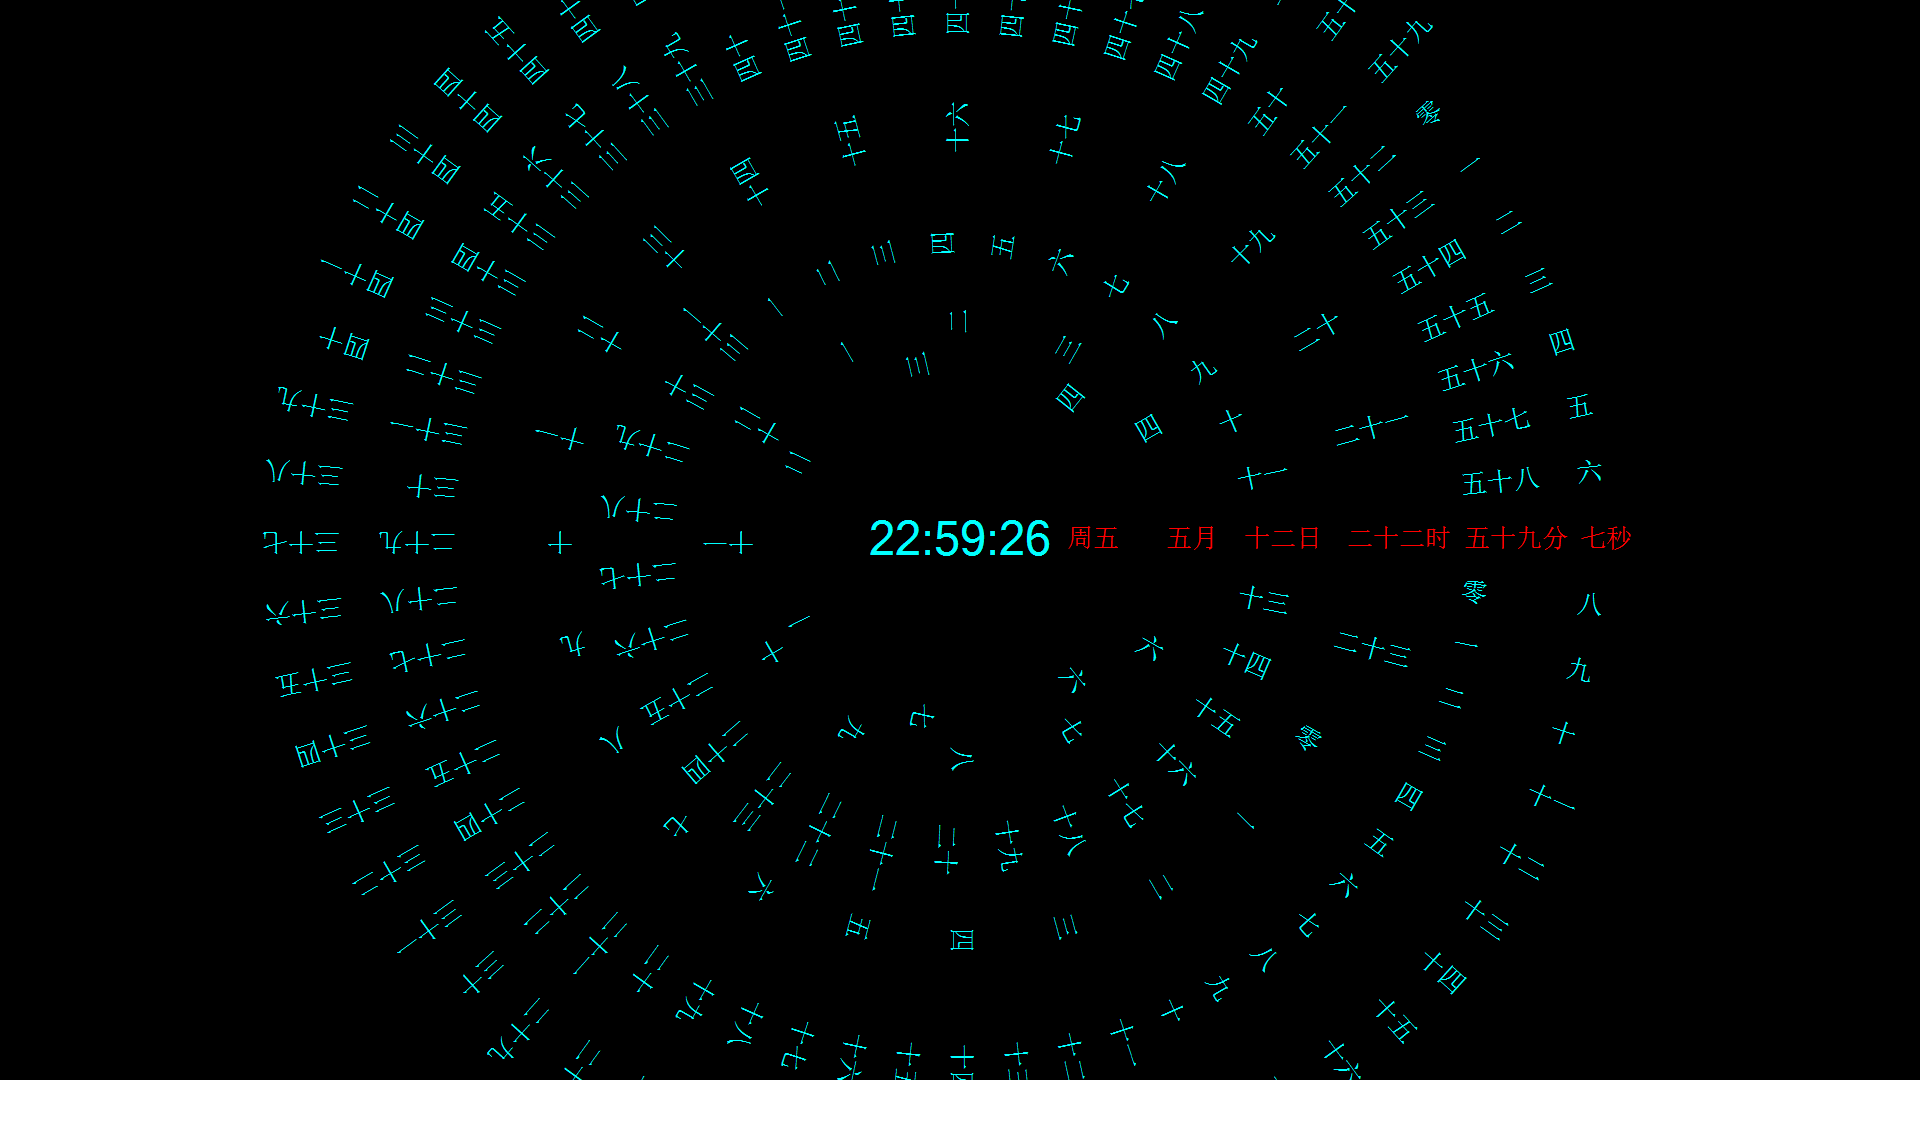
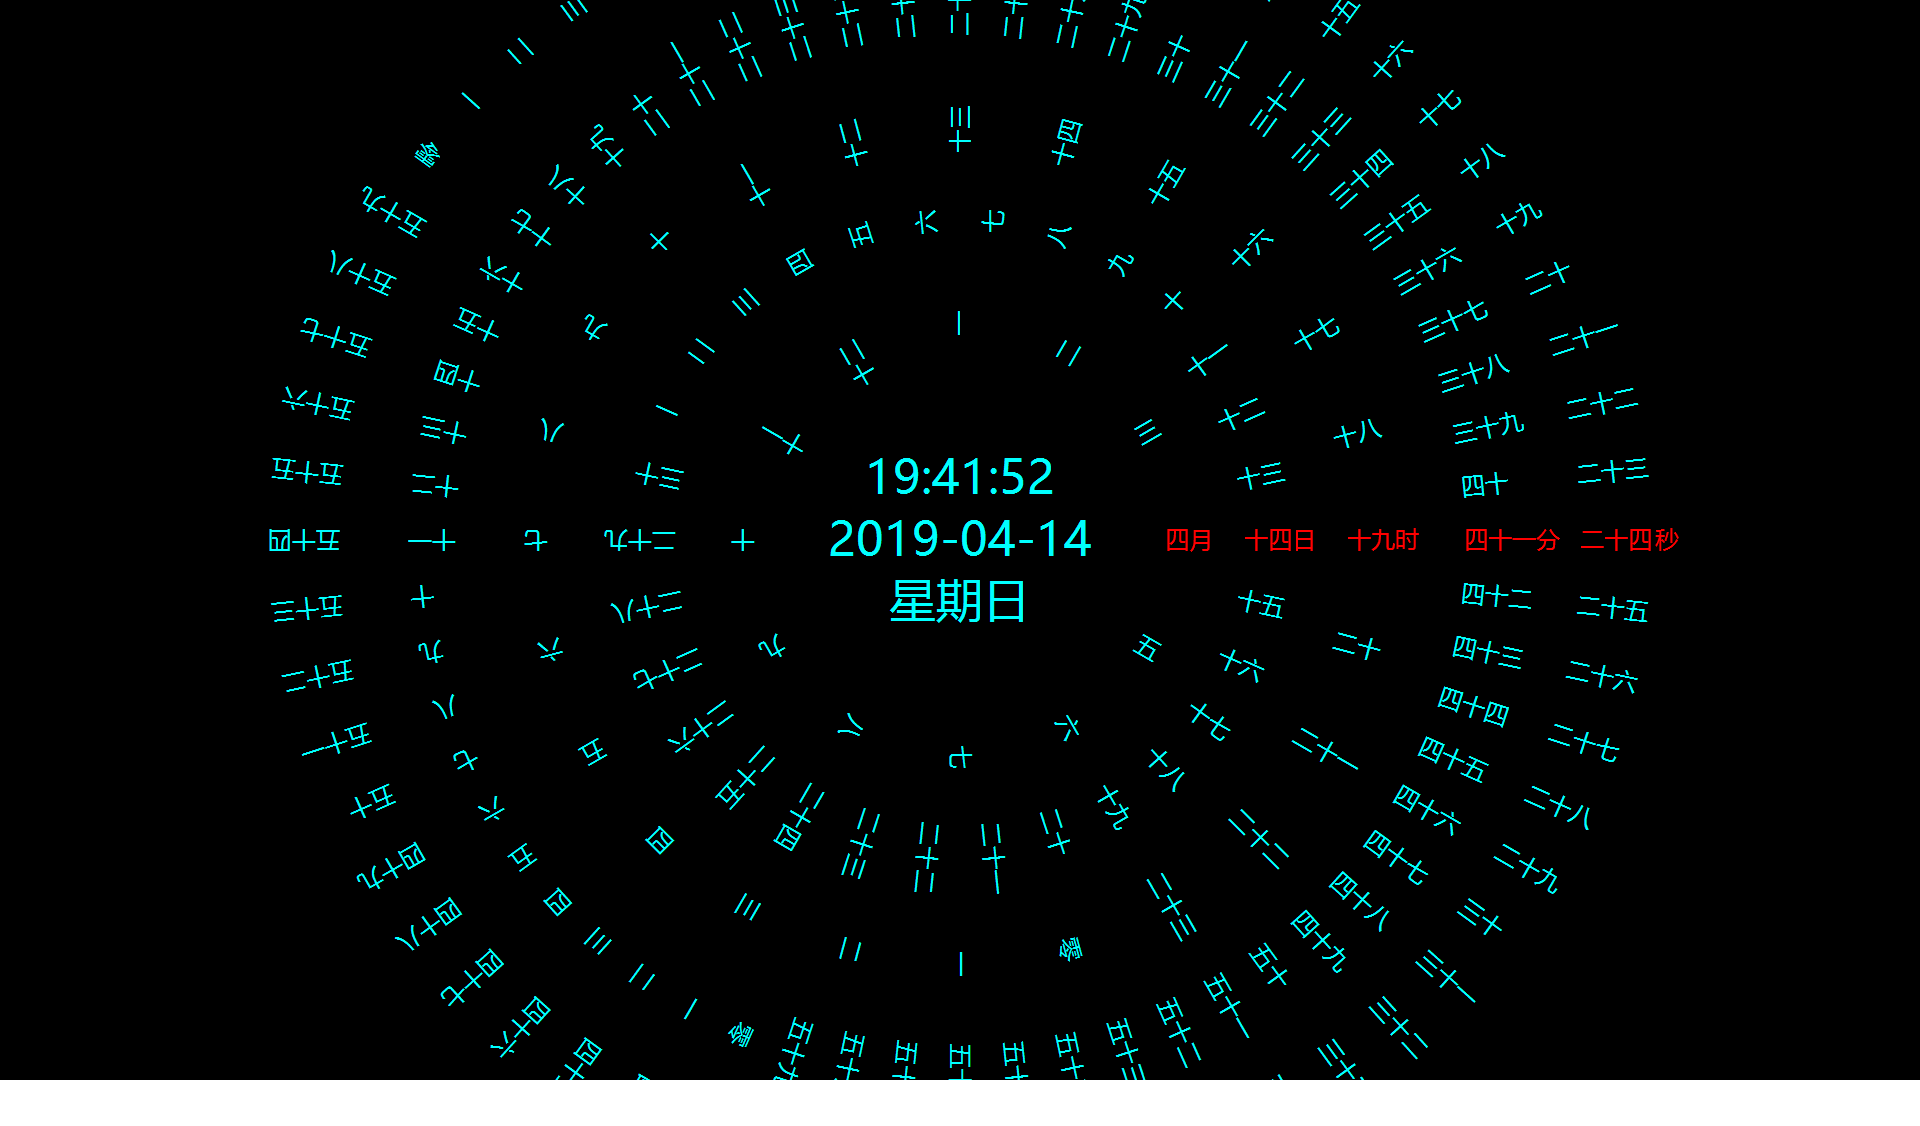
优化绘制算法

diff --git a/src/WordClock/ScreenSaver.cs b/src/WordClock/ScreenSaver.cs
@@ -17,17 +17,17 @@ namespace WordClock
     {
         IDictionary<int, string> numberMap = new Dictionary<int, string>()
         {
-            { 0, "零" },      { 1, "一" },      { 2, "二" },      { 3, "三" },      { 4, "四" },
-            { 5, "五" },      { 6, "六" },      { 7, "七" },      { 8, "八" },      { 9, "九" },
-            { 10, "十" },     { 11, "十一" },   { 12, "十二" },   { 13, "十三" },   { 14, "十四" },
-            { 15, "十五" },   { 16, "十六" },   { 17, "十七" },   { 18, "十八" },   { 19, "十九" },
-            { 20, "二十" },   { 21, "二十一" }, { 22, "二十二" }, { 23, "二十三" }, { 24, "二十四" },
+            { 0,  "　零" }, { 1,  "　一" }, { 2,  "　二" }, { 3,  "　三" }, { 4,  "　四" },
+            { 5,  "　五" }, { 6,  "　六" }, { 7,  "　七" }, { 8,  "　八" }, { 9,  "　九" },
+            { 10, "　十" }, { 11, "十一" }, { 12, "十二" }, { 13, "十三" }, { 14, "十四" },
+            { 15, "十五" }, { 16, "十六" }, { 17, "十七" }, { 18, "十八" }, { 19, "十九" },
+            { 20, "二十" }, { 21, "二十一" }, { 22, "二十二" }, { 23, "二十三" }, { 24, "二十四" },
             { 25, "二十五" }, { 26, "二十六" }, { 27, "二十七" }, { 28, "二十八" }, { 29, "二十九" },
-            { 30, "三十" },   { 31, "三十一" }, { 32, "三十二" }, { 33, "三十三" }, { 34, "三十四" },
+            { 30, "三十" }, { 31, "三十一" }, { 32, "三十二" }, { 33, "三十三" }, { 34, "三十四" },
             { 35, "三十五" }, { 36, "三十六" }, { 37, "三十七" }, { 38, "三十八" }, { 39, "三十九" },
-            { 40, "四十" },   { 41, "四十一" }, { 42, "四十二" }, { 43, "四十三" }, { 44, "四十四" },
+            { 40, "四十" }, { 41, "四十一" }, { 42, "四十二" }, { 43, "四十三" }, { 44, "四十四" },
             { 45, "四十五" }, { 46, "四十六" }, { 47, "四十七" }, { 48, "四十八" }, { 49, "四十九" },
-            { 50, "五十" },   { 51, "五十一" }, { 52, "五十二" }, { 53, "五十三" }, { 54, "五十四" },
+            { 50, "五十" }, { 51, "五十一" }, { 52, "五十二" }, { 53, "五十三" }, { 54, "五十四" },
             { 55, "五十五" }, { 56, "五十六" }, { 57, "五十七" }, { 58, "五十八" }, { 59, "五十九" },
             { 60, "六十" },
         };
@@ -129,8 +129,8 @@ namespace WordClock
             brushBackColor = new SolidBrush(Color.Black);
             var g = CreateGraphics();
             //选择字体、字号、风格
-            font = new Font("宋体", 18f * 96f / g.DpiX, FontStyle.Regular);
-            fontClock = new Font("宋体", 35f * 96f / g.DpiX, FontStyle.Regular);
+            font = new Font("微软雅黑", 18f * 96f / g.DpiX, FontStyle.Regular);
+            fontClock = new Font("微软雅黑", 35f * 96f / g.DpiX, FontStyle.Regular);
 
             img = new Bitmap(Width, Height);
             img1 = new Bitmap(Width, Height);
@@ -157,7 +157,8 @@ namespace WordClock
             timerMain.Tick += TimerMain_Tick;
 
             SyncTime();
-            DrawToImage(_time);
+
+            DrawToImage(img, _time, 0f);
             timerMain.Start();
         }
 
@@ -167,7 +168,7 @@ namespace WordClock
 
             gBmp.FillRectangle(brushBackColor, 0, 0, Width, Height);
 
-            gBmp.DrawString(DateTime.Now.ToString("HH:mm:ss"), fontClock, brush, Width / 2, Height / 2, formatCenter);
+            gBmp.DrawString(DateTime.Now.ToString("dddd\nyyyy-MM-dd\nHH:mm:ss"), fontClock, brush, Width / 2, Height / 2, formatCenter);
 
             float r = Height / 1.5f;
             float minr = 150;
@@ -177,7 +178,8 @@ namespace WordClock
             var now = DateTime.Now;
 
             r -= dr * 8;
-            DrawCircle(gBmp, r, 60, "秒", angleOffset, time.Second);
+            var secondPre = numberMap[time.Second].Length > 2 ? "　　　秒": "　　秒";
+            DrawCircle(gBmp, r, 60, secondPre, angleOffset, time.Second);
 
             r -= dr * 9;
             DrawCircle(gBmp, r, 60, "分", false, true, now.Minute);
@@ -189,11 +191,8 @@ namespace WordClock
             r -= dr * 8;
             DrawCircle(gBmp, r, dayNum, "日", false, false, now.Day);
 
-            r -= dr * 6;
+            r -= dr * 8;
             DrawCircle(gBmp, r, 12, "月", false, false, now.Month);
-
-            r -= dr * 4;
-            DrawCircle(gBmp, r, 7, (int)now.DayOfWeek);
         }
 
         private void DrawCircle(Graphics gBmp, float r, int num, string tip, float angleOffset, int curIdx)
@@ -202,12 +201,14 @@ namespace WordClock
 
             var offset = new SizeF(r, 0);
 
+            gBmp.DrawString(tip, font, brushRed, center + offset, formatNear);
+
             Matrix mtxRotate = gBmp.Transform;
             mtxRotate.RotateAt(angleOffset, center);
             gBmp.Transform = mtxRotate;
 
             var ang = 360f / num;
-            gBmp.DrawString(numberMap[curIdx] + tip, font, brushRed, center + offset, formatNear);
+            gBmp.DrawString(numberMap[curIdx], font, brushRed, center + offset, formatNear);
 
             for (int i = 1; i < num; i++)
             {
@@ -256,43 +257,6 @@ namespace WordClock
             }
         }
 
-        // 绘制周
-        private void DrawCircle(Graphics gBmp, float r, int num, int curIdx)
-        {
-            var offset = new SizeF(r, 0);
-
-            var f = formatFar;
-            var ori = numberMap[0];
-            numberMap[0] = "日";
-
-            var text = $"周{numberMap[curIdx % num]}";
-
-            gBmp.ResetTransform();
-            gBmp.DrawString(text, font, brush, center + offset, formatCenter);
-
-            //if (num > 1)
-            //{
-            //    var ang = 360f / num;
-            //    for (int i = 1; i < num; i++)
-            //    {
-            //        //旋转角度和平移
-            //        Matrix mtxRotate = gBmp.Transform;
-            //        mtxRotate.RotateAt(ang, center);
-            //        gBmp.Transform = mtxRotate;
-
-            //        var idx = (i + curIdx) % num;
-            //        if (idx == 0)
-            //        {
-            //            idx = num;
-            //        }
-
-            //        gBmp.DrawString(numberMap[idx], font, brush, center + offset, formatNear);
-            //    }
-            //}
-
-            numberMap[0] = ori;
-        }
-
         Mutex mtx = new Mutex(false);
 
         /// <summary>
@@ -300,40 +264,40 @@ namespace WordClock
         /// </summary>
         void DisplayImage()
         {
-            text.DrawImage(img, 0, 0);
-
             var tsk = new Task(() =>
             {
                 mtx.WaitOne();
-                Thread.Sleep(10);
-                text.DrawImage(img1, 0, 0);
-                Thread.Sleep(10);
-                text.DrawImage(img2, 0, 0);
-                Thread.Sleep(30);
-                text.DrawImage(img3, 0, 0);
-                mtx.ReleaseMutex();
+                try
+                {
+                    text.DrawImage(img, 0, 0);
+                    // 当前帧的过渡帧1
+                    DrawToImage(img, _time, -2.1f);
 
-                DrawToImage(_time);
+                    text.DrawImage(img1, 0, 0);
+                    // 当前帧的过渡帧2
+                    DrawToImage(img1, _time, -4.2f);
+
+                    text.DrawImage(img2, 0, 0);
+                    var tt = _time.AddSeconds(1);
+                    // 下一帧的回弹帧
+                    DrawToImage(img2, tt, -0.3f);
+
+                    Thread.Sleep(30);
+                    text.DrawImage(img3, 0, 0);
+                    // 下一帧
+                    DrawToImage(img3, tt, 0f);
+                }
+                catch (Exception)
+                {
+                    // ignore
+                }
+                finally
+                {
+                    mtx.ReleaseMutex();
+                }
             });
 
             tsk.Start();
-        }
-
-        /// <summary>
-        /// 绘制下一帧的数据
-        /// </summary>
-        /// <param name="time"></param>
-        void DrawToImage(DateTime time)
-        {
-            // 当前帧的过渡帧
-            DrawToImage(img, time, -2.1f);
-            DrawToImage(img1, time, -4.2f);
-
-            var tt = time.AddSeconds(1);
-            // 下一帧的回弹帧
-            DrawToImage(img2, tt, -0.3f);
-            // 下一帧
-            DrawToImage(img3, tt, 0f);
         }
 
         private void TimerMain_Tick(object sender, EventArgs e)
@@ -349,82 +313,16 @@ namespace WordClock
         protected override void OnKeyDown(KeyEventArgs e)
         {
             base.OnKeyDown(e);
-            Exit();
+            if (e.KeyCode != Keys.Alt && e.KeyCode != Keys.PrintScreen && e.KeyCode != Keys.Menu)
+            {
+                Exit();
+            }
         }
 
         protected override void OnMouseDown(MouseEventArgs e)
         {
             base.OnMouseDown(e);
             Exit();
-        }
-
-
-        void RefrencesCode()
-        {
-            var img = new Bitmap(500, 500);
-
-            Graphics gBmp = Graphics.FromImage(img);
-
-            //添加文字
-            String str1 = "1ABCDE";
-            String str2 = "2ABCDEABCDE";
-            String str3 = "3ABCDEABCDEABCDE";
-            Font font = new Font("微软雅黑", 16);
-            SolidBrush sbrush1 = new SolidBrush(Color.Green);
-            SolidBrush sbrush2 = new SolidBrush(Color.Red);
-
-            //笔刷渐变效果
-            //LinearGradientBrush sbrush3 = new LinearGradientBrush(new PointF(100, 100), new PointF(250,250), Color.Red ,Color.Black); 
-            SolidBrush sbrush3 = new SolidBrush(Color.Blue);
-
-            //绘制饼图
-            //SolidBrush s1 = new SolidBrush(Color.Pink);
-            //gBmp.FillPie(s1, 150, 150, 200, 150, 90, 200);
-            //SolidBrush s2 = new SolidBrush(Color.Purple);
-            //gBmp.FillPie(s2, 150, 150, 200, 150, 290, 70);
-            //SolidBrush s3 = new SolidBrush(Color.Green);
-            //gBmp.FillPie(s3, 150, 150, 200, 150, 0, 60);
-            //SolidBrush s4 = new SolidBrush(Color.Brown);
-            //gBmp.FillPie(s4, 150, 150, 200, 150, 60, 30);
-
-            //文字位置中心点坐标
-            Pen p1 = new Pen(Color.Green, 3);
-            gBmp.DrawLine(p1, 0, 100, 200, 100);
-            gBmp.DrawLine(p1, 100, 0, 100, 200);
-            // Rectangle rect = new Rectangle(200,200,100,70);
-            // gBmp.DrawEllipse(p1,rect);
-
-
-            StringFormat format1 = new StringFormat();
-            //指定字符串的水平对齐方式
-            format1.Alignment = StringAlignment.Far;
-            //表示字符串的垂直对齐方式
-            format1.LineAlignment = StringAlignment.Center;
-            StringFormat format2 = new StringFormat();
-            //指定字符串的水平对齐方式
-            format2.Alignment = StringAlignment.Center;
-            //表示字符串的垂直对齐方式
-            format2.LineAlignment = StringAlignment.Center;
-            StringFormat format3 = new StringFormat();
-            //指定字符串的水平对齐方式
-            format3.Alignment = StringAlignment.Near;
-            //表示字符串的垂直对齐方式
-            format3.LineAlignment = StringAlignment.Center;
-
-            //旋转角度和平移
-            Matrix mtxRotate = gBmp.Transform;
-            mtxRotate.RotateAt(30, new PointF(100, 100));
-            gBmp.Transform = mtxRotate;
-
-            //gBmp.DrawString(str1, font, sbrush1, new PointF(100, 100), format1);
-            //gBmp.DrawString(str2, font, sbrush2, new PointF(100, 100), format2);
-            gBmp.DrawString(str3, font, sbrush3, new PointF(100, 100), format3);
-
-
-            var g = this.CreateGraphics();
-            g.DrawImage(img, 0, 0);
-
-            gBmp.Dispose();
         }
     }
 }

diff --git a/src/WordClock/ScreenSaver.Designer.cs b/src/WordClock/ScreenSaver.Designer.cs
@@ -54,7 +54,6 @@
         #endregion
 
         private System.Windows.Forms.Timer timerMain;
-        private System.Windows.Forms.Timer timer1;
     }
 }
 
